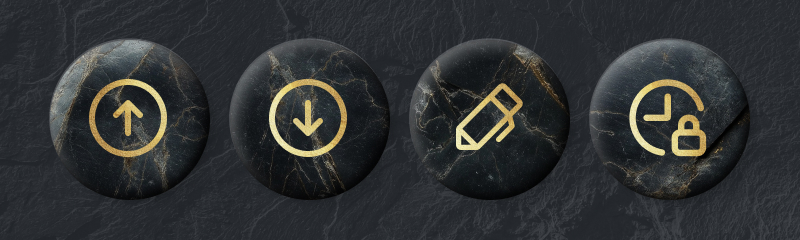
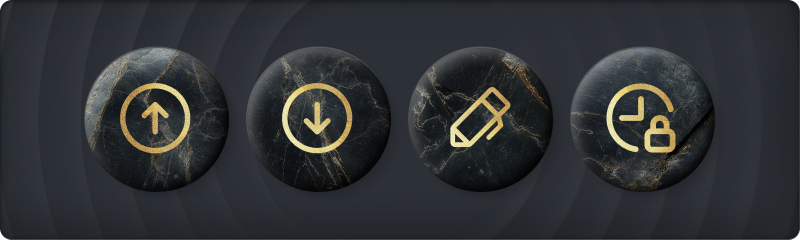
Update How it works modal image

diff --git a/apps/frontend-v3/lib/vebal/vote/Votes/MyVotes/MyVotesHintModal.tsx b/apps/frontend-v3/lib/vebal/vote/Votes/MyVotes/MyVotesHintModal.tsx
@@ -38,7 +38,7 @@ export function MyVotesHintModal({ isOpen = false, onClose = () => {} }: UseDisc
         <ModalCloseButton />
         <ModalBody pb="lg">
           <VStack gap="lg">
-            <Box overflow="hidden" rounded="md" shadow="2xl">
+            <Box overflow="hidden" rounded="md">
               <Picture
                 altText="Voting icons"
                 defaultImgType="jpg"

diff --git a/apps/frontend-v3/lib/vebal/vote/my-votes/MyVotesHintModal.tsx b/apps/frontend-v3/lib/vebal/vote/my-votes/MyVotesHintModal.tsx
@@ -38,7 +38,7 @@ export function MyVotesHintModal({ isOpen = false, onClose = () => {} }: UseDisc
         <ModalCloseButton />
         <ModalBody pb="lg">
           <VStack gap="lg">
-            <Box overflow="hidden" rounded="md" shadow="2xl">
+            <Box overflow="hidden" rounded="md">
               <Picture
                 altText="Voting icons"
                 defaultImgType="jpg"